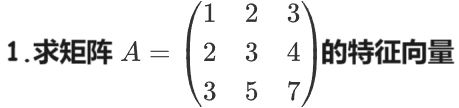
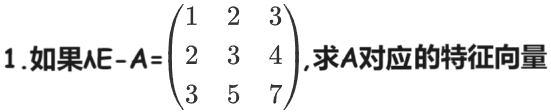
240307

Changed region(s): [[0.3965, 0.0, 1.0, 1.0], [0.0, 0.0278, 0.366, 0.9722]]

diff --git a/02 线代/03 技巧/02 【B站 半道书生】 特征向量最好用的暴力法 240307/02 题集/01 暴力法求解特征值 任意3行都不成比例 240307/02 Doc.md b/02 线代/03 技巧/02 【B站 半道书生】 特征向量最好用的暴力法 240307/02 题集/01 暴力法求解特征值 任意3行都不成比例 240307/02 Doc.md
@@ -4,7 +4,7 @@
 
 # 01 题目
 
-<img src="https://cvp.oss-cn-shanghai.aliyuncs.com/picgo/202403070938389.png" alt="image-20240307093808326" style="zoom:50%;" />
+<img src="https://cvp.oss-cn-shanghai.aliyuncs.com/picgo/202403071547475.png" alt="image-20240307154725386" style="zoom:50%;" />
 
 
 

diff --git a/02 线代/02 知识点/03 特征值与特征向量 240307/02 Doc.md b/02 线代/02 知识点/03 特征值与特征向量 240307/02 Doc.md
@@ -1,0 +1,3 @@
+# 特征值与特征向量
+
+<img src="https://cvp.oss-cn-shanghai.aliyuncs.com/picgo/202403071621879.png" style="zoom: 50%;" />
